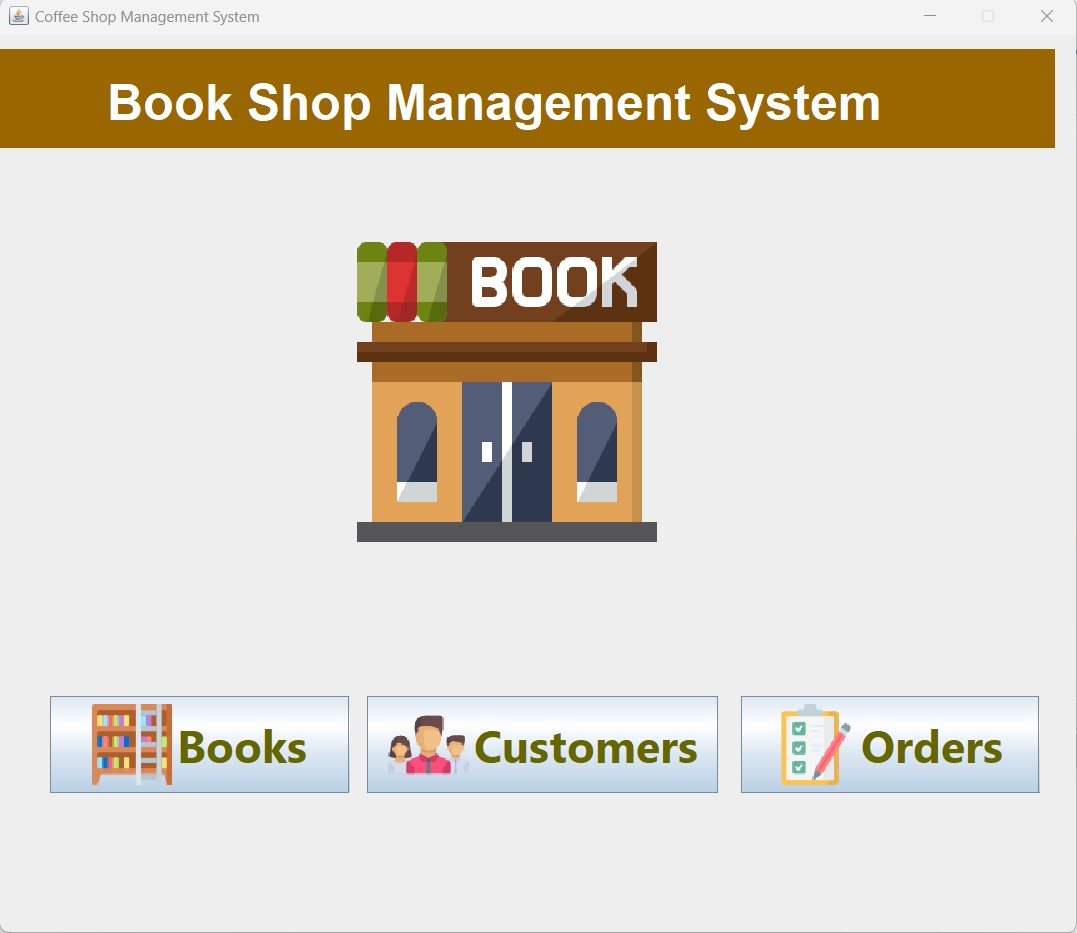
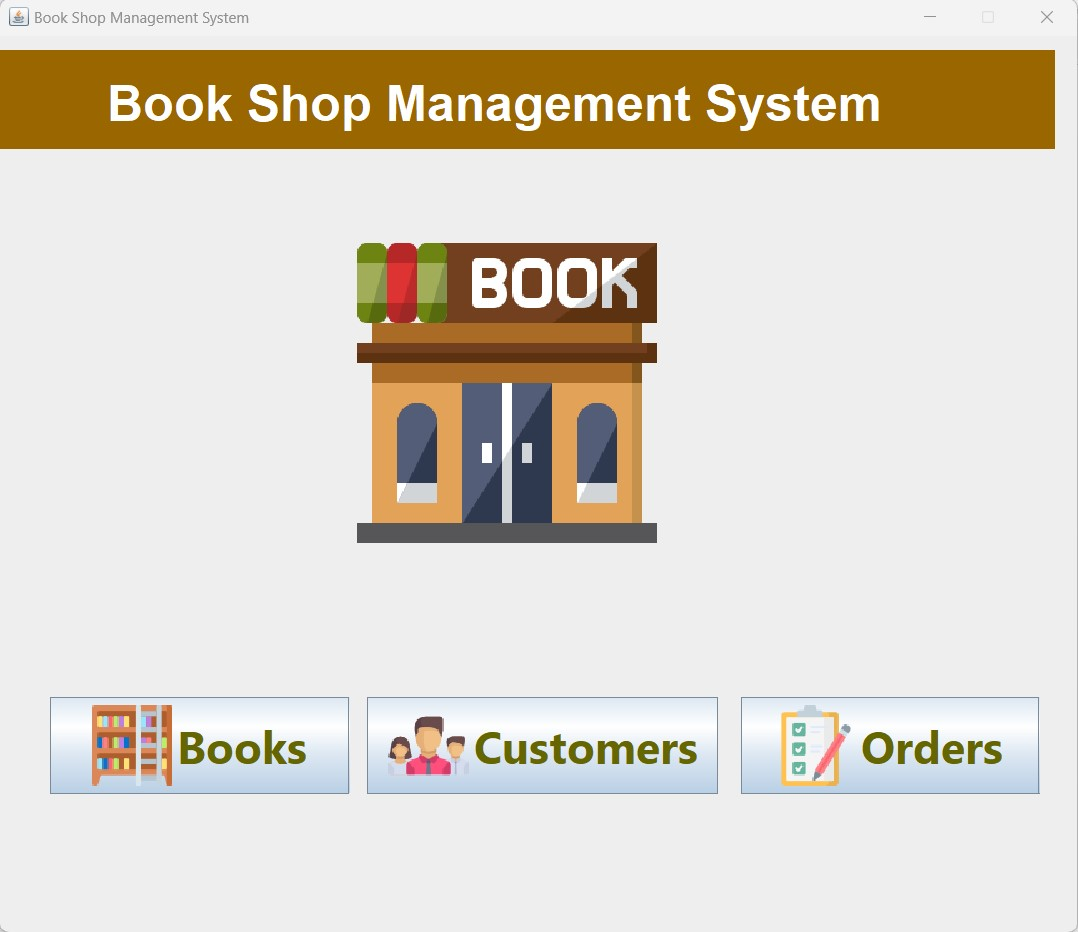
add more images for readme file

diff --git a/src/com/learning/gui/MainFrame.java b/src/com/learning/gui/MainFrame.java
@@ -14,7 +14,7 @@ public class MainFrame extends javax.swing.JFrame {
      */
     public MainFrame() {
         initComponents();
-        setTitle("Coffee Shop Management System");
+        setTitle("Book Shop Management System");
 
         // Load the icon image 
         ImageIcon icon = new ImageIcon("open-book.png");

diff --git a/README.md b/README.md
@@ -34,14 +34,19 @@ Automatic total calculations reduce the risk of billing errors, ensuring accurac
 ## Item Management
 
 Managers can easily add, update, or delete items in the inventory. Item quantities are tracked, with low-stock alerts to prevent shortages and maintain service continuity.
+![screenshot](itemManagement.jpg)
 
 ## Customer Management
 
 The application keeps customer details, including names, loyalty points, and order history.
 Loyalty points are updated, which helps in building customer relationships by recognizing the mostly visited customers.
 Customer data makes it possible for staff to provide a more personalized service, by reviewing the previous orders and preferences, the coffee shop can create special services in the future.
+![screenshot](customerManagement.jpg)
 
 ## Payment Processing
 
 The system supports cash and card payments, offering flexibility to customers. For cash payments, the system calculates and displays change automatically which minimizes errors.
+![screenshot](cashPayment.jpg)
+
 For card payment, customer data is securely processed to ensure privacy and safety (CVV displayed hidden as password in our GUI).In addition, every payment is linked to an order.
+![screenshot](cardPayment.jpg)
